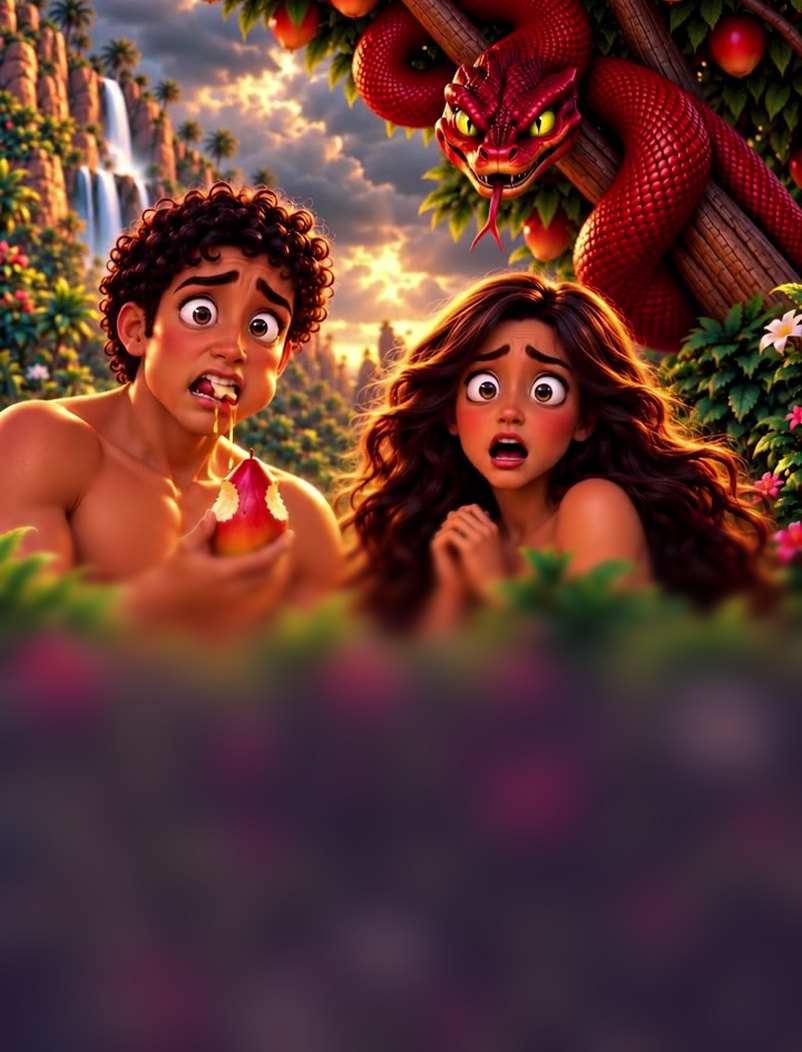
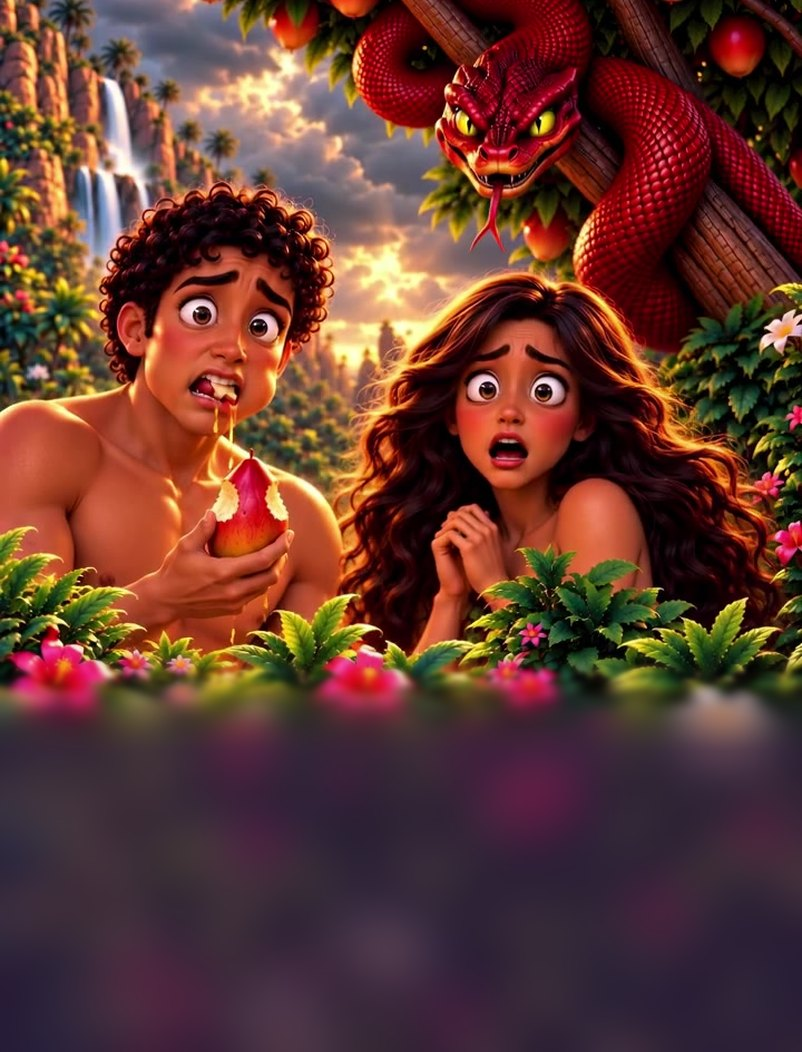
Tract: fit the blur to each panel's own text block
Claude-Session: https://claude.ai/code/session_018ybeG9ZsRbCjgqasvbQwyc

Changed region(s): [[0.0, 0.4867, 1.0, 0.6996], [0.2494, 0.5171, 0.2805, 0.5475]]

diff --git a/ar/index.html b/ar/index.html
@@ -20,8 +20,8 @@
 <meta name="apple-mobile-web-app-status-bar-style" content="black-translucent">
 <meta name="theme-color" content="#2F7FD9">
 <link rel="icon" href="art/favicon-48.png" sizes="48x48">
-<link rel="stylesheet" href="fonts/fonts.css?v=20261017210330">
-<link rel="stylesheet" href="app.css?v=20261017210330">
+<link rel="stylesheet" href="fonts/fonts.css?v=20261017210801">
+<link rel="stylesheet" href="app.css?v=20261017210801">
 </head>
 <body>
 <main class="book" id="book"></main>
@@ -43,7 +43,7 @@
 </div>
 <div class="tip" id="tip" role="status" hidden></div>
 <div class="toast" id="toast" role="status" aria-live="polite"></div>
-<script src="app.js?v=20261017210330"></script>
+<script src="app.js?v=20261017210801"></script>
 <!-- Cloudflare Web Analytics (anonymous, no cookies) --><script defer src="https://static.cloudflareinsights.com/beacon.min.js" data-cf-beacon='{"token": "f07f476aee854a4f9d3679ffcecc1fa7"}'></script>
 </body>
 </html>

diff --git a/bn/index.html b/bn/index.html
@@ -20,8 +20,8 @@
 <meta name="apple-mobile-web-app-status-bar-style" content="black-translucent">
 <meta name="theme-color" content="#2F7FD9">
 <link rel="icon" href="art/favicon-48.png" sizes="48x48">
-<link rel="stylesheet" href="fonts/fonts.css?v=20261017210330">
-<link rel="stylesheet" href="app.css?v=20261017210330">
+<link rel="stylesheet" href="fonts/fonts.css?v=20261017210801">
+<link rel="stylesheet" href="app.css?v=20261017210801">
 </head>
 <body>
 <main class="book" id="book"></main>
@@ -43,7 +43,7 @@
 </div>
 <div class="tip" id="tip" role="status" hidden></div>
 <div class="toast" id="toast" role="status" aria-live="polite"></div>
-<script src="app.js?v=20261017210330"></script>
+<script src="app.js?v=20261017210801"></script>
 <!-- Cloudflare Web Analytics (anonymous, no cookies) --><script defer src="https://static.cloudflareinsights.com/beacon.min.js" data-cf-beacon='{"token": "f07f476aee854a4f9d3679ffcecc1fa7"}'></script>
 </body>
 </html>

diff --git a/da/index.html b/da/index.html
@@ -20,8 +20,8 @@
 <meta name="apple-mobile-web-app-status-bar-style" content="black-translucent">
 <meta name="theme-color" content="#2F7FD9">
 <link rel="icon" href="art/favicon-48.png" sizes="48x48">
-<link rel="stylesheet" href="fonts/fonts.css?v=20261017210330">
-<link rel="stylesheet" href="app.css?v=20261017210330">
+<link rel="stylesheet" href="fonts/fonts.css?v=20261017210801">
+<link rel="stylesheet" href="app.css?v=20261017210801">
 </head>
 <body>
 <main class="book" id="book"></main>
@@ -43,7 +43,7 @@
 </div>
 <div class="tip" id="tip" role="status" hidden></div>
 <div class="toast" id="toast" role="status" aria-live="polite"></div>
-<script src="app.js?v=20261017210330"></script>
+<script src="app.js?v=20261017210801"></script>
 <!-- Cloudflare Web Analytics (anonymous, no cookies) --><script defer src="https://static.cloudflareinsights.com/beacon.min.js" data-cf-beacon='{"token": "f07f476aee854a4f9d3679ffcecc1fa7"}'></script>
 </body>
 </html>

diff --git a/de/index.html b/de/index.html
@@ -20,8 +20,8 @@
 <meta name="apple-mobile-web-app-status-bar-style" content="black-translucent">
 <meta name="theme-color" content="#2F7FD9">
 <link rel="icon" href="art/favicon-48.png" sizes="48x48">
-<link rel="stylesheet" href="fonts/fonts.css?v=20261017210330">
-<link rel="stylesheet" href="app.css?v=20261017210330">
+<link rel="stylesheet" href="fonts/fonts.css?v=20261017210801">
+<link rel="stylesheet" href="app.css?v=20261017210801">
 </head>
 <body>
 <main class="book" id="book"></main>
@@ -43,7 +43,7 @@
 </div>
 <div class="tip" id="tip" role="status" hidden></div>
 <div class="toast" id="toast" role="status" aria-live="polite"></div>
-<script src="app.js?v=20261017210330"></script>
+<script src="app.js?v=20261017210801"></script>
 <!-- Cloudflare Web Analytics (anonymous, no cookies) --><script defer src="https://static.cloudflareinsights.com/beacon.min.js" data-cf-beacon='{"token": "f07f476aee854a4f9d3679ffcecc1fa7"}'></script>
 </body>
 </html>

diff --git a/en/index.html b/en/index.html
@@ -20,8 +20,8 @@
 <meta name="apple-mobile-web-app-status-bar-style" content="black-translucent">
 <meta name="theme-color" content="#2F7FD9">
 <link rel="icon" href="art/favicon-48.png" sizes="48x48">
-<link rel="stylesheet" href="fonts/fonts.css?v=20261017210330">
-<link rel="stylesheet" href="app.css?v=20261017210330">
+<link rel="stylesheet" href="fonts/fonts.css?v=20261017210801">
+<link rel="stylesheet" href="app.css?v=20261017210801">
 </head>
 <body>
 <main class="book" id="book"></main>
@@ -43,7 +43,7 @@
 </div>
 <div class="tip" id="tip" role="status" hidden></div>
 <div class="toast" id="toast" role="status" aria-live="polite"></div>
-<script src="app.js?v=20261017210330"></script>
+<script src="app.js?v=20261017210801"></script>
 <!-- Cloudflare Web Analytics (anonymous, no cookies) --><script defer src="https://static.cloudflareinsights.com/beacon.min.js" data-cf-beacon='{"token": "f07f476aee854a4f9d3679ffcecc1fa7"}'></script>
 </body>
 </html>

diff --git a/es/index.html b/es/index.html
@@ -20,8 +20,8 @@
 <meta name="apple-mobile-web-app-status-bar-style" content="black-translucent">
 <meta name="theme-color" content="#2F7FD9">
 <link rel="icon" href="art/favicon-48.png" sizes="48x48">
-<link rel="stylesheet" href="fonts/fonts.css?v=20261017210330">
-<link rel="stylesheet" href="app.css?v=20261017210330">
+<link rel="stylesheet" href="fonts/fonts.css?v=20261017210801">
+<link rel="stylesheet" href="app.css?v=20261017210801">
 </head>
 <body>
 <main class="book" id="book"></main>
@@ -43,7 +43,7 @@
 </div>
 <div class="tip" id="tip" role="status" hidden></div>
 <div class="toast" id="toast" role="status" aria-live="polite"></div>
-<script src="app.js?v=20261017210330"></script>
+<script src="app.js?v=20261017210801"></script>
 <!-- Cloudflare Web Analytics (anonymous, no cookies) --><script defer src="https://static.cloudflareinsights.com/beacon.min.js" data-cf-beacon='{"token": "f07f476aee854a4f9d3679ffcecc1fa7"}'></script>
 </body>
 </html>

diff --git a/fr/index.html b/fr/index.html
@@ -20,8 +20,8 @@
 <meta name="apple-mobile-web-app-status-bar-style" content="black-translucent">
 <meta name="theme-color" content="#2F7FD9">
 <link rel="icon" href="art/favicon-48.png" sizes="48x48">
-<link rel="stylesheet" href="fonts/fonts.css?v=20261017210330">
-<link rel="stylesheet" href="app.css?v=20261017210330">
+<link rel="stylesheet" href="fonts/fonts.css?v=20261017210801">
+<link rel="stylesheet" href="app.css?v=20261017210801">
 </head>
 <body>
 <main class="book" id="book"></main>
@@ -43,7 +43,7 @@
 </div>
 <div class="tip" id="tip" role="status" hidden></div>
 <div class="toast" id="toast" role="status" aria-live="polite"></div>
-<script src="app.js?v=20261017210330"></script>
+<script src="app.js?v=20261017210801"></script>
 <!-- Cloudflare Web Analytics (anonymous, no cookies) --><script defer src="https://static.cloudflareinsights.com/beacon.min.js" data-cf-beacon='{"token": "f07f476aee854a4f9d3679ffcecc1fa7"}'></script>
 </body>
 </html>

diff --git a/he/index.html b/he/index.html
@@ -20,8 +20,8 @@
 <meta name="apple-mobile-web-app-status-bar-style" content="black-translucent">
 <meta name="theme-color" content="#2F7FD9">
 <link rel="icon" href="art/favicon-48.png" sizes="48x48">
-<link rel="stylesheet" href="fonts/fonts.css?v=20261017210330">
-<link rel="stylesheet" href="app.css?v=20261017210330">
+<link rel="stylesheet" href="fonts/fonts.css?v=20261017210801">
+<link rel="stylesheet" href="app.css?v=20261017210801">
 </head>
 <body>
 <main class="book" id="book"></main>
@@ -43,7 +43,7 @@
 </div>
 <div class="tip" id="tip" role="status" hidden></div>
 <div class="toast" id="toast" role="status" aria-live="polite"></div>
-<script src="app.js?v=20261017210330"></script>
+<script src="app.js?v=20261017210801"></script>
 <!-- Cloudflare Web Analytics (anonymous, no cookies) --><script defer src="https://static.cloudflareinsights.com/beacon.min.js" data-cf-beacon='{"token": "f07f476aee854a4f9d3679ffcecc1fa7"}'></script>
 </body>
 </html>

diff --git a/hi/index.html b/hi/index.html
@@ -20,8 +20,8 @@
 <meta name="apple-mobile-web-app-status-bar-style" content="black-translucent">
 <meta name="theme-color" content="#2F7FD9">
 <link rel="icon" href="art/favicon-48.png" sizes="48x48">
-<link rel="stylesheet" href="fonts/fonts.css?v=20261017210330">
-<link rel="stylesheet" href="app.css?v=20261017210330">
+<link rel="stylesheet" href="fonts/fonts.css?v=20261017210801">
+<link rel="stylesheet" href="app.css?v=20261017210801">
 </head>
 <body>
 <main class="book" id="book"></main>
@@ -43,7 +43,7 @@
 </div>
 <div class="tip" id="tip" role="status" hidden></div>
 <div class="toast" id="toast" role="status" aria-live="polite"></div>
-<script src="app.js?v=20261017210330"></script>
+<script src="app.js?v=20261017210801"></script>
 <!-- Cloudflare Web Analytics (anonymous, no cookies) --><script defer src="https://static.cloudflareinsights.com/beacon.min.js" data-cf-beacon='{"token": "f07f476aee854a4f9d3679ffcecc1fa7"}'></script>
 </body>
 </html>

diff --git a/index.html b/index.html
@@ -20,8 +20,8 @@
 <meta name="apple-mobile-web-app-status-bar-style" content="black-translucent">
 <meta name="theme-color" content="#2F7FD9">
 <link rel="icon" href="art/favicon-48.png" sizes="48x48">
-<link rel="stylesheet" href="fonts/fonts.css?v=20261017210330">
-<link rel="stylesheet" href="app.css?v=20261017210330">
+<link rel="stylesheet" href="fonts/fonts.css?v=20261017210801">
+<link rel="stylesheet" href="app.css?v=20261017210801">
 </head>
 <body>
 <main class="book" id="book"></main>
@@ -43,7 +43,7 @@
 </div>
 <div class="tip" id="tip" role="status" hidden></div>
 <div class="toast" id="toast" role="status" aria-live="polite"></div>
-<script src="app.js?v=20261017210330"></script>
+<script src="app.js?v=20261017210801"></script>
 <!-- Cloudflare Web Analytics (anonymous, no cookies) --><script defer src="https://static.cloudflareinsights.com/beacon.min.js" data-cf-beacon='{"token": "f07f476aee854a4f9d3679ffcecc1fa7"}'></script>
 </body>
 </html>

diff --git a/ja/index.html b/ja/index.html
@@ -20,8 +20,8 @@
 <meta name="apple-mobile-web-app-status-bar-style" content="black-translucent">
 <meta name="theme-color" content="#2F7FD9">
 <link rel="icon" href="art/favicon-48.png" sizes="48x48">
-<link rel="stylesheet" href="fonts/fonts.css?v=20261017210330">
-<link rel="stylesheet" href="app.css?v=20261017210330">
+<link rel="stylesheet" href="fonts/fonts.css?v=20261017210801">
+<link rel="stylesheet" href="app.css?v=20261017210801">
 </head>
 <body>
 <main class="book" id="book"></main>
@@ -43,7 +43,7 @@
 </div>
 <div class="tip" id="tip" role="status" hidden></div>
 <div class="toast" id="toast" role="status" aria-live="polite"></div>
-<script src="app.js?v=20261017210330"></script>
+<script src="app.js?v=20261017210801"></script>
 <!-- Cloudflare Web Analytics (anonymous, no cookies) --><script defer src="https://static.cloudflareinsights.com/beacon.min.js" data-cf-beacon='{"token": "f07f476aee854a4f9d3679ffcecc1fa7"}'></script>
 </body>
 </html>

diff --git a/ki/index.html b/ki/index.html
@@ -20,8 +20,8 @@
 <meta name="apple-mobile-web-app-status-bar-style" content="black-translucent">
 <meta name="theme-color" content="#2F7FD9">
 <link rel="icon" href="art/favicon-48.png" sizes="48x48">
-<link rel="stylesheet" href="fonts/fonts.css?v=20261017210330">
-<link rel="stylesheet" href="app.css?v=20261017210330">
+<link rel="stylesheet" href="fonts/fonts.css?v=20261017210801">
+<link rel="stylesheet" href="app.css?v=20261017210801">
 </head>
 <body>
 <main class="book" id="book"></main>
@@ -43,7 +43,7 @@
 </div>
 <div class="tip" id="tip" role="status" hidden></div>
 <div class="toast" id="toast" role="status" aria-live="polite"></div>
-<script src="app.js?v=20261017210330"></script>
+<script src="app.js?v=20261017210801"></script>
 <!-- Cloudflare Web Analytics (anonymous, no cookies) --><script defer src="https://static.cloudflareinsights.com/beacon.min.js" data-cf-beacon='{"token": "f07f476aee854a4f9d3679ffcecc1fa7"}'></script>
 </body>
 </html>
